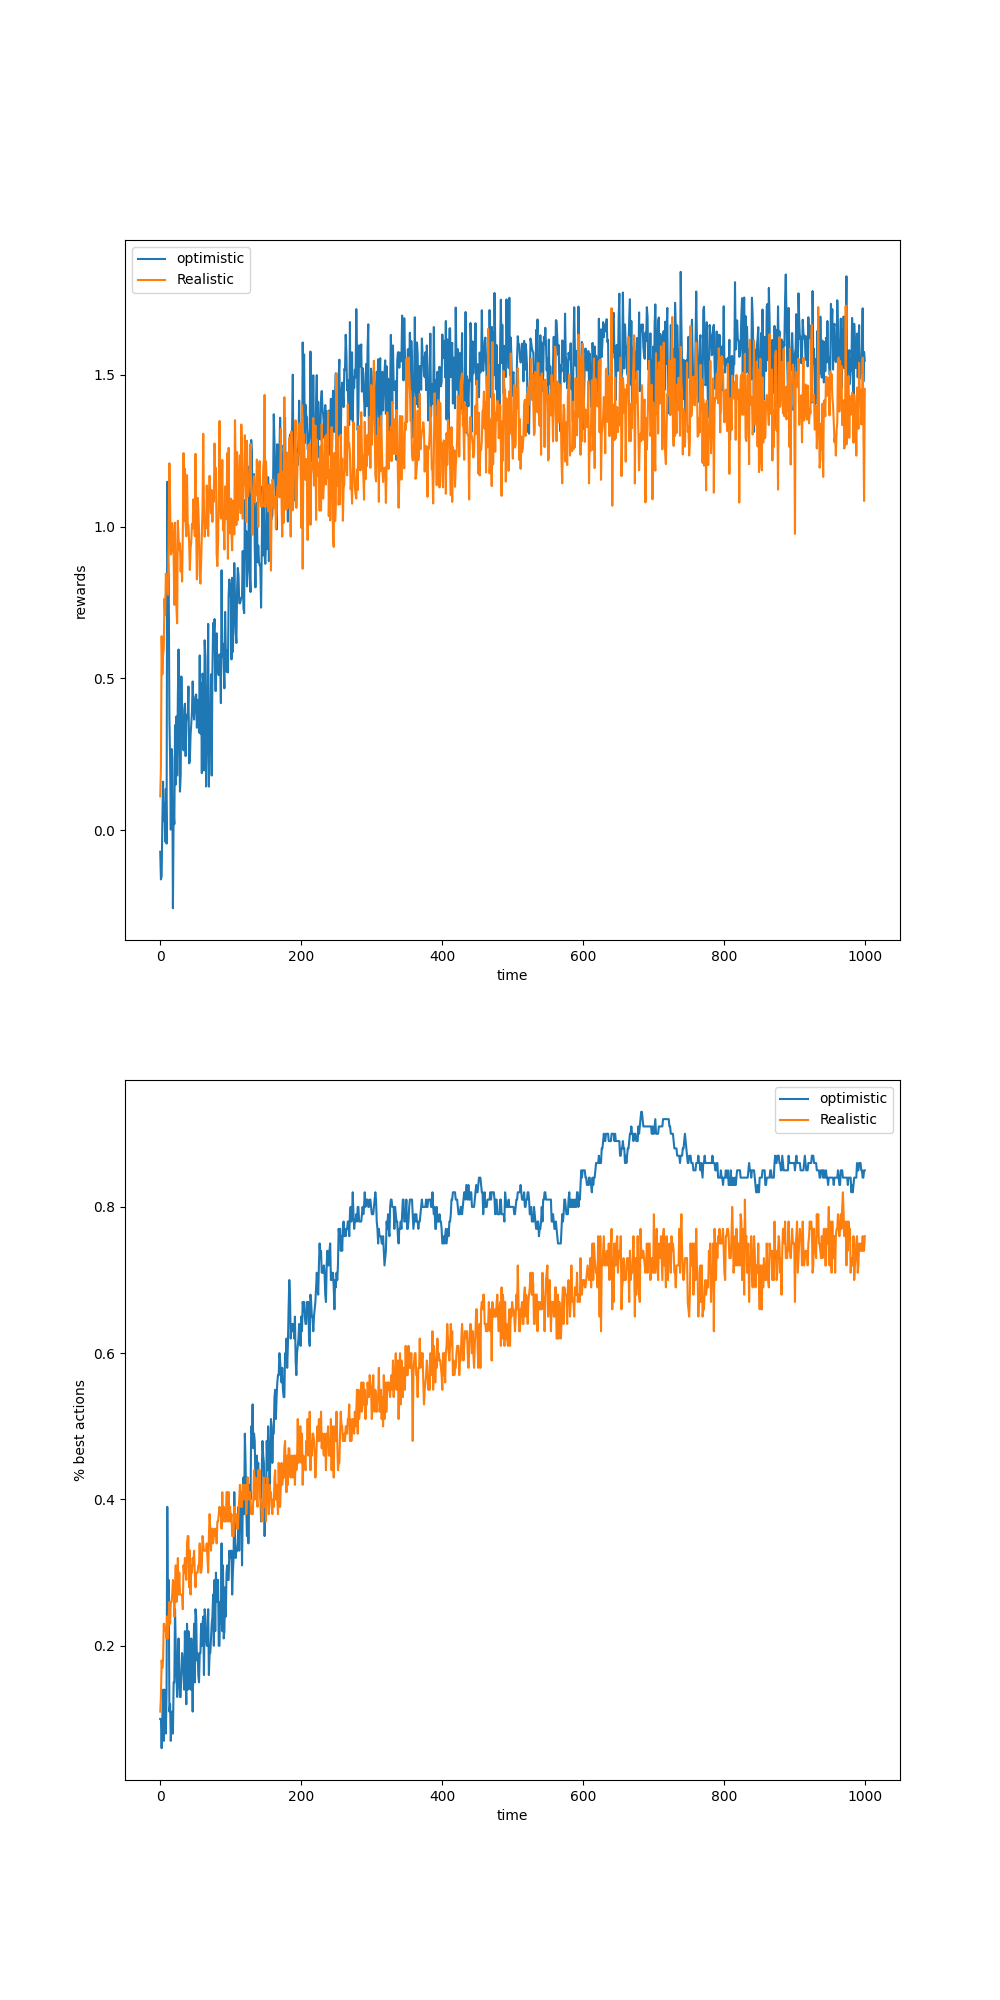
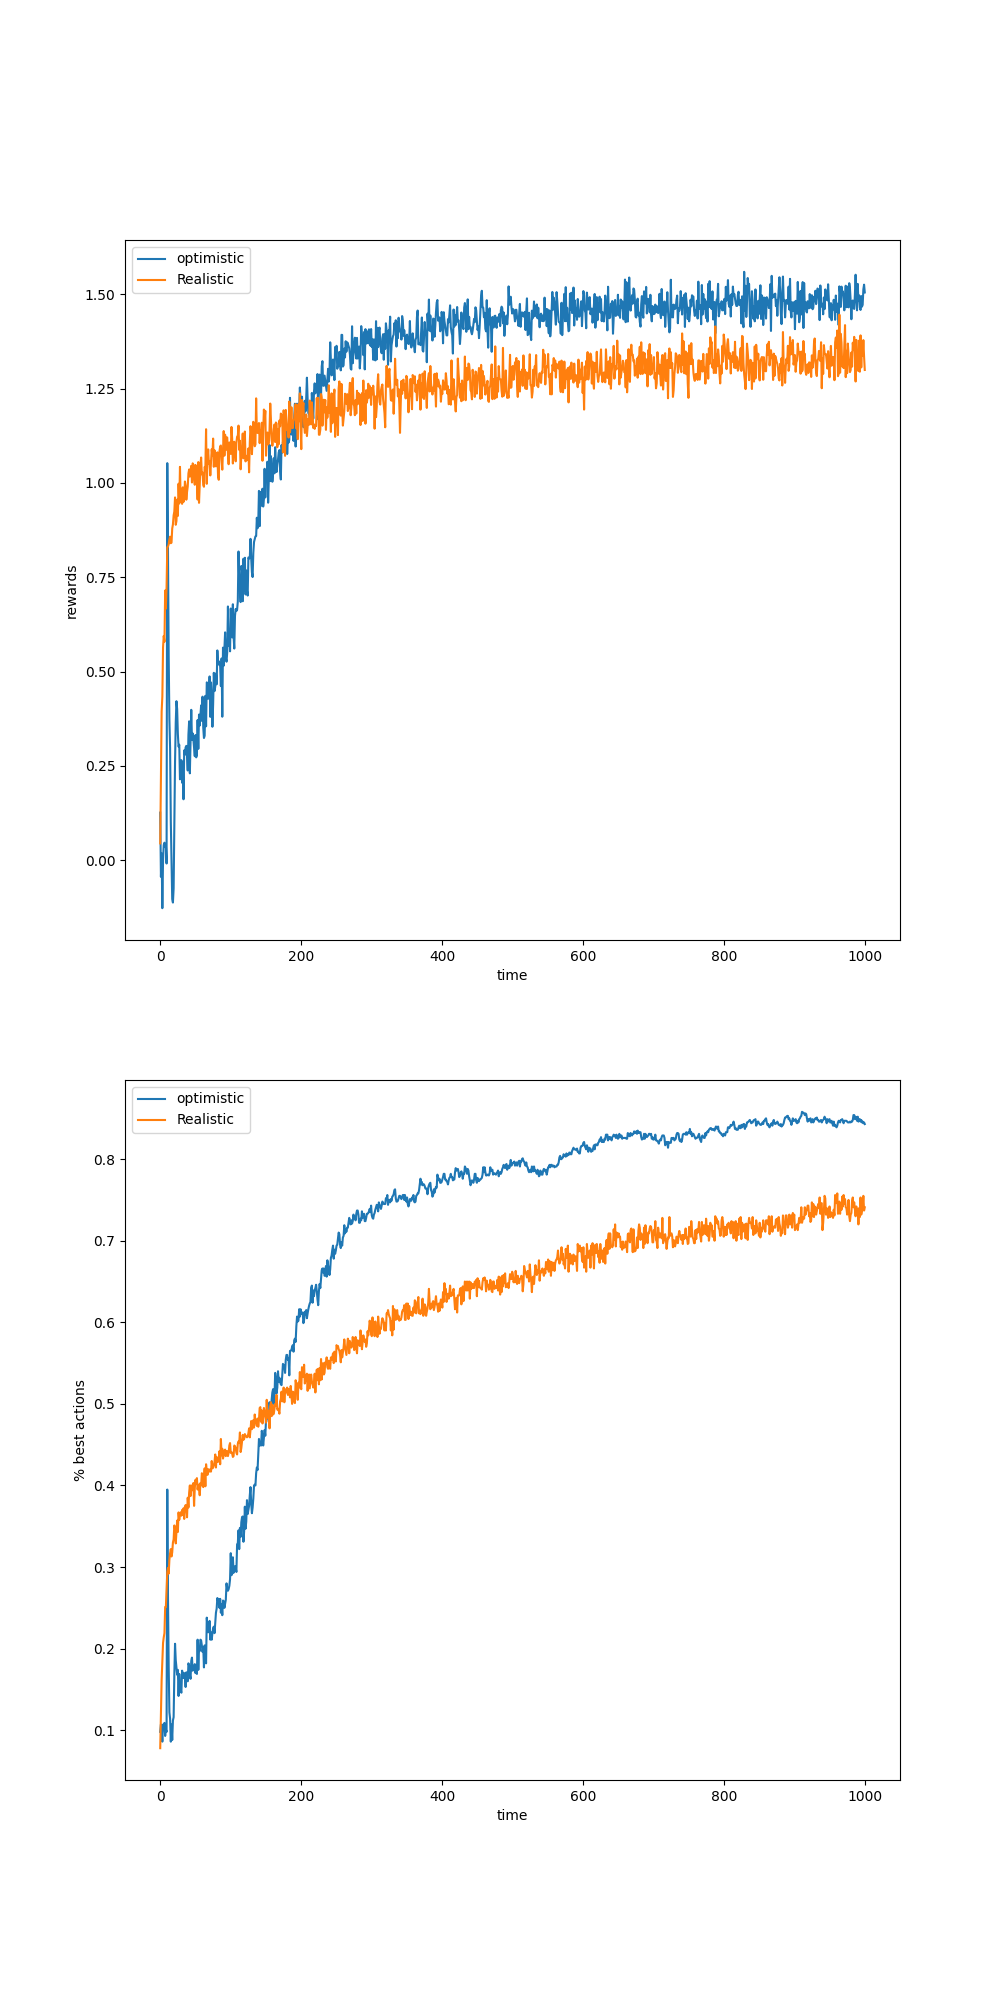
...

diff --git a/Book Sutton/chapter02/my_chapter02.py b/Book Sutton/chapter02/my_chapter02.py
@@ -4,7 +4,7 @@ from tqdm import tqdm
 
 
 class Bandit:
-    def __init__(self, arms=10, epsilon=0., step_size=0.1, q_true_initial=0., q_estimated_initial=0.,
+    def __init__(self, arms=10, epsilon=0., step_size=0.1, q_estimated_initial=0.,
                  is_sample_avg=False, is_ucb=False, is_grad=False, is_stationary=True):
         self.arms = arms
         self.actions = np.arange(self.arms)
@@ -14,14 +14,13 @@ class Bandit:
         self.is_ucb = is_ucb
         self.is_grad = is_grad
         self.is_stationary = is_stationary
-        self.q_true_initial = q_true_initial
         self.q_estimated_initial = q_estimated_initial
 
     def reset(self):
         if self.is_stationary:
             self.q_true = np.random.randn(self.arms)
         else:
-            self.q_true = np.zeros(self.arms) + self.q_true_initial
+            self.q_true = np.zeros(self.arms)
         self.q_estimated = np.zeros(self.arms) + self.q_estimated_initial
         self.action_counts = np.zeros(self.arms)
         self.t = 0
@@ -98,7 +97,7 @@ def exercise_2_5():
     is_sample_average = [True, False]
     bandits = [Bandit(epsilon=0.1, step_size=0.1, is_stationary=False, is_sample_avg=is_avg)
                for is_avg in is_sample_average]
-    rewards, best_actions = run_simulation(bandits, runs=2000, time=10000)
+    rewards, best_actions = run_simulation(bandits, runs=200, time=1000)
 
     plt.figure(figsize=(10, 20))
     plt.subplot(2, 1, 1)
@@ -148,4 +147,4 @@ def section_2_6():
 
 
 if __name__ == '__main__':
-    section_2_6()
+    exercise_2_5()
